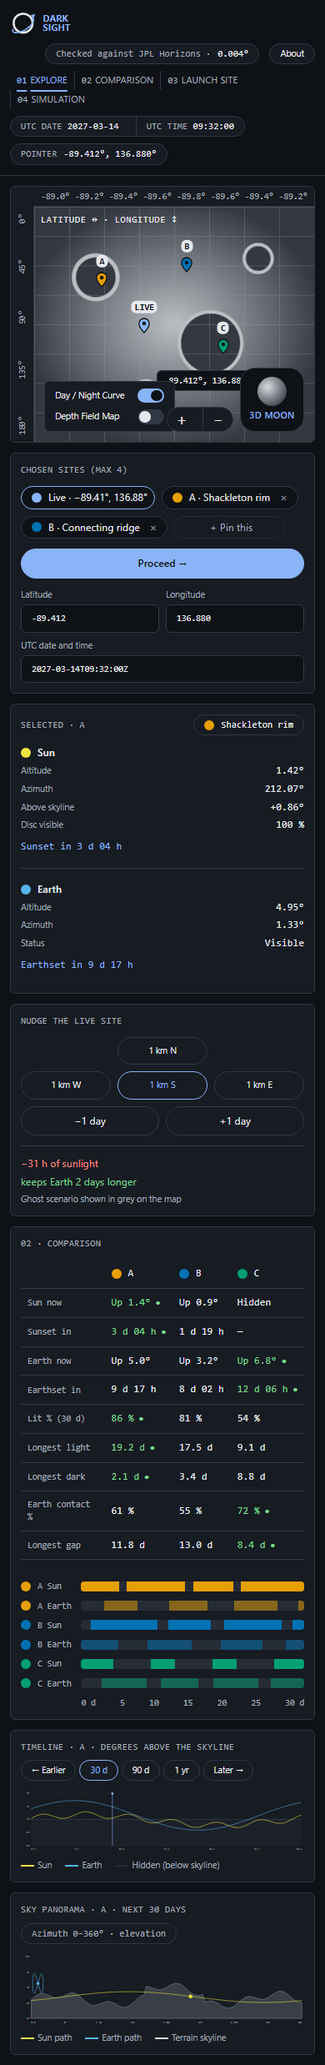
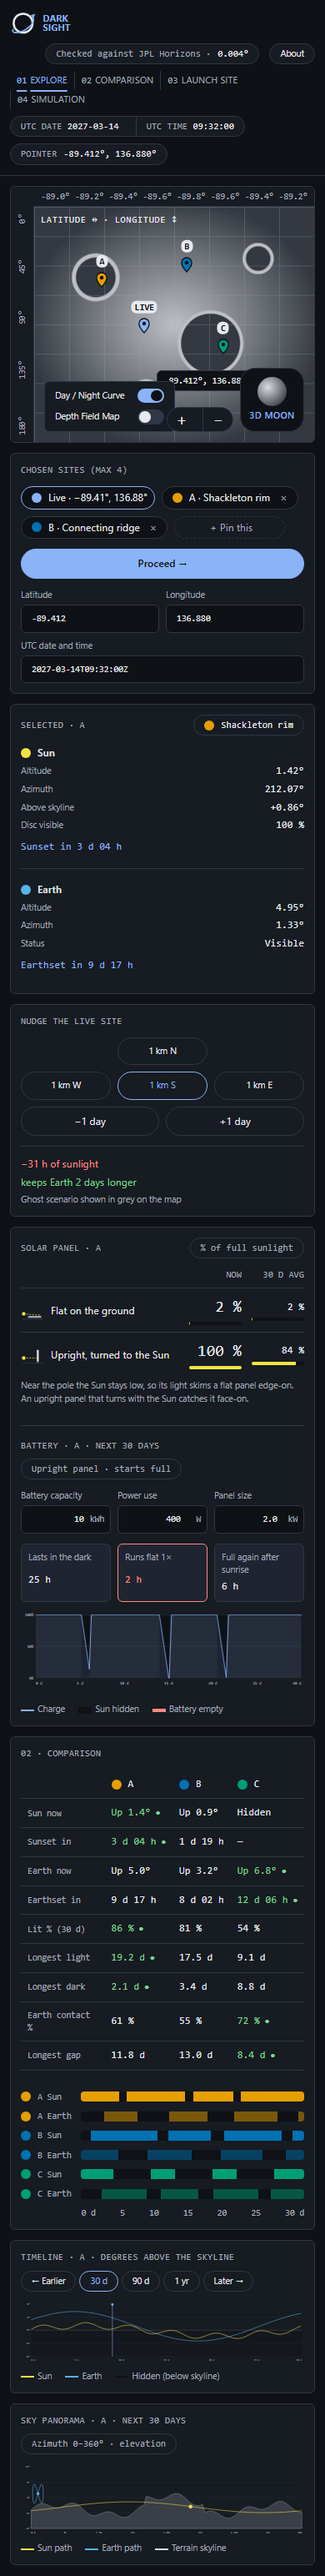
T22-b: solar panel slot with a battery proposal, pictures re-exported
The mock-up gets the ninth slot, panel: flat and upright power with a
diagram, number and meter, now and 30-day, on its own full-width row
under Scenarios. Beside it, a battery proposal: capacity, power use
and panel size in; a 30-day charge curve, time it lasts in the dark,
time flat and time to refill out. --dark follows T19 (#0e1116). All
pictures re-exported, panel.png new; design.md lists the battery and
the changed arrangement for P1.

diff --git a/docs/design/mockup.html b/docs/design/mockup.html
@@ -13,7 +13,7 @@
   Views (query string):
     ?view=desktop    whole screen, 1280 wide            -> desktop.png
     ?view=phone      whole screen, 390 wide             -> phone.png
-    ?slot=<id>       one slot alone, at its desktop width -> <id>.png
+    ?slot=<id>       one slot alone, at its desktop width -> <id>.png (nine slots, panel included)
     ?view=components buttons, tabs, toggles, chips, pills, toast, tooltip
     ?view=loading    brief frame 1 (proposal)
     ?view=hero       brief frame 2 (proposal)
@@ -46,7 +46,7 @@
   --sun: #F0E442;         /* fixed */
   --earth: #56B4E9;       /* fixed */
   --lit: #e6e9ee;
-  --dark: #262c36;
+  --dark: #0e1116;       /* T19 (#23): on #262c36 scenario B's strip was 2.71:1, here 3.65:1 */
   --terrain-lo: #3a3f47;
   --terrain-hi: #d9dce1;
   --space-1: 4px;
@@ -121,7 +121,7 @@ h3 {
   grid-template-columns: minmax(0, 1fr) 24rem;
   grid-template-areas:
     'about about' 'scene readout' 'scene nudge'
-    'scenarios scenarios' 'compare compare' 'timeline timeline' 'sky sky';
+    'scenarios scenarios' 'panel panel' 'compare compare' 'timeline timeline' 'sky sky';
   grid-template-rows: auto auto 1fr;
   gap: var(--space-4);
   padding: 0 var(--space-5) var(--space-5);
@@ -129,12 +129,13 @@ h3 {
 }
 #about { grid-area: about; } #scene { grid-area: scene; } #readout { grid-area: readout; }
 #nudge { grid-area: nudge; align-self: start; } #scenarios { grid-area: scenarios; }
+#panel { grid-area: panel; }
 #compare { grid-area: compare; } #timeline { grid-area: timeline; } #sky { grid-area: sky; }
 #app > * { min-width: 0; }
 
 body.phone #app {
   width: 390px; grid-template-columns: minmax(0, 1fr);
-  grid-template-areas: 'about' 'scene' 'scenarios' 'readout' 'nudge' 'compare' 'timeline' 'sky';
+  grid-template-areas: 'about' 'scene' 'scenarios' 'readout' 'nudge' 'panel' 'compare' 'timeline' 'sky';
   grid-template-rows: none; gap: var(--space-3); padding: 0 var(--space-3) var(--space-3);
 }
 body.phone .card { padding: var(--space-3); }
@@ -277,6 +278,43 @@ body.phone .site-inputs > :last-child { grid-column: 1 / -1; }
 .nudge-out { margin-top: var(--space-3); padding-top: var(--space-3); border-top: 1px solid var(--border); display: grid; gap: var(--space-1); }
 .ok { color: var(--ok); } .bad { color: var(--bad); }
 
+/* ---------- panel: solar panel power (F15) and battery (proposal) ---------- */
+#panel { display: grid; grid-template-columns: 24rem minmax(0, 1fr); gap: var(--space-5); }
+body.phone #panel { grid-template-columns: minmax(0, 1fr); }
+.pn-side { display: flex; flex-direction: column; gap: var(--space-3); min-width: 0; }
+.pn-side + .pn-side { border-left: 1px solid var(--border); padding-left: var(--space-5); }
+body.phone .pn-side + .pn-side { border-left: 0; padding-left: 0; border-top: 1px solid var(--border); padding-top: var(--space-4); }
+#panel .chart-head { margin: 0; }
+.pn-grid { display: grid; grid-template-columns: minmax(0, 1fr) 4.5rem 4.5rem; gap: var(--space-2) var(--space-3); align-items: center; }
+.pn-col { font-family: var(--font-num); font-size: var(--fs-sm); color: var(--muted); letter-spacing: 0.04em; text-transform: uppercase; text-align: right; }
+.pn-type { display: flex; align-items: center; gap: var(--space-2); line-height: 1.25; }
+.pn-type svg { width: 2rem; height: 2rem; flex: none; }
+.pn-val { display: grid; gap: var(--space-1); }
+.pn-val b { font-family: var(--font-num); font-variant-numeric: tabular-nums; font-weight: 400; text-align: right; }
+.pn-val b.hi { font-size: var(--fs-lg); }
+.meter { height: var(--space-1); border-radius: var(--space-1); background: var(--dark); overflow: hidden; }
+.meter i { display: block; height: 100%; background: var(--sun); }
+.pn-grid .rule { grid-column: 1 / -1; border-top: 1px solid var(--border); }
+.pn-why { font-size: var(--fs-sm); }
+.bt-inputs { display: grid; grid-template-columns: repeat(3, minmax(0, 1fr)); gap: var(--space-2); }
+.bt-unit { position: relative; display: block; }
+.bt-unit .field { padding-right: 3rem; text-align: right; }
+.bt-unit span { position: absolute; right: var(--space-3); top: 50%; transform: translateY(-50%); color: var(--muted); font-family: var(--font-num); font-size: var(--fs-sm); }
+.bt-stats { display: grid; grid-template-columns: repeat(3, minmax(0, 1fr)); gap: var(--space-2); }
+body.phone .bt-unit .field { padding-right: 2.25rem; }
+body.phone .bt-unit span { right: var(--space-2); }
+body.phone .stat { padding: var(--space-2); }
+body.phone .stat .v { font-size: var(--fs-md); }
+.stat { background: var(--panel-2); border: 1px solid var(--border); border-radius: var(--radius); padding: var(--space-2) var(--space-3); display: grid; gap: var(--space-1); }
+.stat .k { font-size: var(--fs-sm); color: var(--muted); }
+.stat .v { font-family: var(--font-num); font-variant-numeric: tabular-nums; font-size: var(--fs-lg); }
+.stat.warn { border-color: var(--bad); }
+.stat.warn .v { color: var(--bad); }
+svg.chart .charge { stroke: var(--accent); fill: none; stroke-width: 2; }
+svg.chart .charge-fill { fill: var(--accent); opacity: 0.12; }
+svg.chart .night { fill: var(--dark); }
+svg.chart .flat { stroke: var(--bad); stroke-width: 4; }
+
 /* ---------- compare ---------- */
 .compare-wrap { overflow-x: auto; }
 .table td.best { color: var(--ok); }
@@ -316,6 +354,7 @@ body.slot #app > .show { display: block; margin: 0; }
 body.slot #app > #scene.show { display: block; }
 body.slot #app > #scenarios.show { display: grid; }
 body.slot #app > #about.show { display: flex; }
+body.slot #app > #panel.show { display: grid; }
 
 /* ---------- extra sheets ---------- */
 .sheet { padding: var(--space-5); display: grid; gap: var(--space-5); width: 1280px; }
@@ -441,6 +480,38 @@ body.slot #app > #about.show { display: flex; }
     </div>
   </section>
 
+  <!-- panel (F15, T15) plus the battery proposal. Made-up numbers that agree with the readout
+       (Sun 1.42 deg up, lit 86 % of 30 days); the battery curve is simulated in the script below on
+       scenario A's Sun strip, so its stats agree with its chart. -->
+  <section id="panel" class="card" aria-label="Solar panel and battery">
+    <div class="pn-side">
+      <div class="chart-head"><h3>Solar panel · A</h3><span class="badge">% of full sunlight</span></div>
+      <div class="pn-grid">
+        <span></span><span class="pn-col">Now</span><span class="pn-col">30 d avg</span>
+        <span class="rule"></span>
+        <span class="pn-type"><svg viewBox="0 0 32 32" aria-hidden="true"><circle cx="4" cy="21" r="2.5" fill="var(--sun)"/><path d="M8 21.5 L28 23" stroke="var(--sun)" stroke-width="1" stroke-dasharray="2 2"/><rect x="10" y="24" width="18" height="2.5" fill="var(--muted)"/><path d="M2 28 H30" stroke="var(--border)" stroke-width="1"/></svg>Flat on the ground</span>
+        <span class="pn-val"><b class="hi">2 %</b><span class="meter"><i style="width:2%"></i></span></span>
+        <span class="pn-val"><b>2 %</b><span class="meter"><i style="width:2%"></i></span></span>
+        <span class="rule"></span>
+        <span class="pn-type"><svg viewBox="0 0 32 32" aria-hidden="true"><circle cx="4" cy="21" r="2.5" fill="var(--sun)"/><path d="M8 21 H21" stroke="var(--sun)" stroke-width="1" stroke-dasharray="2 2"/><rect x="22" y="10" width="2.5" height="16" fill="var(--text)"/><path d="M23.25 26 V28" stroke="var(--muted)" stroke-width="1"/><path d="M2 28 H30" stroke="var(--border)" stroke-width="1"/></svg>Upright, turned to the Sun</span>
+        <span class="pn-val"><b class="hi">100 %</b><span class="meter"><i style="width:100%"></i></span></span>
+        <span class="pn-val"><b>84 %</b><span class="meter"><i style="width:84%"></i></span></span>
+      </div>
+      <p class="pn-why muted">Near the pole the Sun stays low, so its light skims a flat panel edge-on. An upright panel that turns with the Sun catches it face-on.</p>
+    </div>
+    <div class="pn-side">
+      <div class="chart-head"><h3>Battery · A · next 30 days</h3><span class="badge">Upright panel · starts full</span></div>
+      <div class="bt-inputs">
+        <label class="lab">Battery capacity<span class="bt-unit"><input class="field" value="10"><span>kWh</span></span></label>
+        <label class="lab">Power use<span class="bt-unit"><input class="field" value="400"><span>W</span></span></label>
+        <label class="lab">Panel size<span class="bt-unit"><input class="field" value="2.0"><span>kW</span></span></label>
+      </div>
+      <div class="bt-stats" id="bt-stats"></div>
+      <svg class="chart" id="btc" viewBox="0 0 760 200"></svg>
+      <div class="legend"><span><i style="background:var(--accent)"></i>Charge</span><span><i style="background:var(--dark);height:var(--space-2)"></i>Sun hidden</span><span><i style="background:var(--bad);height:var(--space-1)"></i>Battery empty</span></div>
+    </div>
+  </section>
+
   <!-- scenarios -->
   <section id="scenarios" class="card" aria-label="Scenarios">
     <h3 style="margin:0">Chosen sites (max 4)</h3>
@@ -530,6 +601,48 @@ sc.forEach(([n, c, sunF, earthF], i) => {
 });
 s += '<span></span><div class="strip-axis"><span>0 d</span><span>5</span><span>10</span><span>15</span><span>20</span><span>25</span><span>30 d</span></div>';
 document.getElementById('strips').innerHTML = s;
+
+// battery: a real run of the mock on scenario A's Sun strip (same runs() as above), upright panel.
+// Inputs as shown in the fields: 10 kWh, 400 W use, 2.0 kW panel; starts full.
+(function () {
+  const cap = 10000, load = 400, peak = 2000, dt = 0.01; // Wh, W, W, days
+  const sun = runs(0, 0.86);
+  const lit = (d) => { let t = 0; for (const [u, l] of sun) { if (d < t + l) return u; t += l; } return false; };
+  let e = cap, empty = 0, emptyRuns = 0, wasEmpty = false, sunrise = null;
+  const refill = [], pts = [];
+  for (let d = 0; d <= 30 + 1e-9; d += dt) {
+    const up = lit(d);
+    e = Math.max(0, Math.min(cap, e + ((up ? peak : 0) - load) * dt * 24));
+    if (e === 0) { empty += dt; if (!wasEmpty) emptyRuns++; wasEmpty = true; } else wasEmpty = false;
+    if (!up) sunrise = null;
+    else if (sunrise === null && e < cap) sunrise = d;
+    if (sunrise !== null && e >= cap) { refill.push(d - sunrise); sunrise = null; }
+    pts.push([d, e / cap, up]);
+  }
+  const lastsH = cap / load;
+  const refillH = refill.length ? Math.max(...refill) * 24 : 0;
+  const W = 760, H = 200, L = 40, R = 8, T = 8, B = 24;
+  const x = (d) => L + (d / 30) * (W - L - R), y = (f) => T + (1 - f) * (H - T - B);
+  let g = '', n0 = null, f0 = null;
+  pts.forEach(([d, , up], i) => {
+    if (!up && n0 === null) n0 = d;
+    if ((up || i === pts.length - 1) && n0 !== null) { g += `<rect class="night" x="${x(n0)}" y="${T}" width="${x(d) - x(n0)}" height="${H - T - B}"/>`; n0 = null; }
+  });
+  for (const f of [0, 0.5, 1]) g += `<line class="gridl" x1="${L}" x2="${W - R}" y1="${y(f)}" y2="${y(f)}"/><text class="tick" x="${L - 6}" y="${y(f) + 4}" text-anchor="end">${f * 100}%</text>`;
+  for (let d = 0; d <= 30; d += 5) g += `<text class="tick" x="${x(d)}" y="${H - 6}" text-anchor="${d === 30 ? 'end' : d === 0 ? 'start' : 'middle'}">${d} d</text>`;
+  const line = pts.map(([d, f], i) => (i ? 'L' : 'M') + x(d).toFixed(1) + ' ' + y(f).toFixed(1)).join('');
+  g += `<path class="charge-fill" d="${line}L${x(30)} ${y(0)}L${x(0)} ${y(0)}Z"/><path class="charge" d="${line}"/>`;
+  pts.forEach(([d, f], i) => {
+    if (f === 0 && f0 === null) f0 = d;
+    if ((f > 0 || i === pts.length - 1) && f0 !== null) { g += `<line class="flat" x1="${x(f0)}" x2="${x(d)}" y1="${y(0)}" y2="${y(0)}"/>`; f0 = null; }
+  });
+  document.getElementById('btc').innerHTML = g;
+  const h = (v) => v >= 48 ? (v / 24).toFixed(1) + ' d' : Math.round(v) + ' h';
+  document.getElementById('bt-stats').innerHTML =
+    `<div class="stat"><span class="k">Lasts in the dark</span><span class="v">${h(lastsH)}</span></div>` +
+    `<div class="stat${empty ? ' warn' : ''}"><span class="k">${empty ? 'Runs flat ' + emptyRuns + '×' : 'Never runs flat'}</span><span class="v">${empty ? h(empty * 24) : '0 h'}</span></div>` +
+    `<div class="stat"><span class="k">Full again after sunrise</span><span class="v">${h(refillH)}</span></div>`;
+})();
 
 // timeline chart
 (function () {

diff --git a/docs/design.md b/docs/design.md
@@ -22,8 +22,8 @@ exists, paste its link here: _(link to come)_.
 | File | What |
 |---|---|
 | `desktop.png` | Whole screen, 1280 wide |
-| `phone.png` | Whole screen, 390 wide, slots stacked in contract order |
-| `about.png` `scene.png` `scenarios.png` `readout.png` `nudge.png` `compare.png` `timeline.png` `sky.png` | One per slot, at its desktop width |
+| `phone.png` | Whole screen, 390 wide, slots stacked in contract order: about, scene, scenarios, readout, nudge, panel, compare, timeline, sky |
+| `about.png` `scene.png` `scenarios.png` `readout.png` `nudge.png` `panel.png` `compare.png` `timeline.png` `sky.png` | One per slot, at its desktop width (nine slots) |
 | `components.png` | Every state: button (secondary, hover, pressed, focus, selected, disabled), primary, tab, toggle, site chip (filled, selected, empty), info pill, field (focus, error), toast, tooltip on disabled Proceed |
 | `loading.png`, `hero.png` | Brief frames 1 and 2. **Proposals only**: they aren't slots (see "Needs P1") |
 | `cvd.png` | Scenario, Sun and Earth colours under protanopia, deuteranopia, tritanopia |
@@ -49,14 +49,14 @@ Clear Bamboo, Deep Hanada) are no longer used.
 | `--scn-ghost` | `#8a8f98` |
 | `--sun` `--earth` | `#F0E442` `#56B4E9` (fixed) |
 | `--lit` | `#e6e9ee` |
-| `--dark` | `#262c36` |
+| `--dark` | `#0e1116` (T19's choice, #23) |
 | `--terrain-lo` `--terrain-hi` | `#3a3f47` `#d9dce1` |
 | `--radius` | `6px` |
 | `--space-1` … `--space-5` | 4, 8, 12, 16, 24 px |
 
-**Strips on `--dark`.** Solid scenario strips against `#262c36`: A 6.23, C 4.10, **B 2.71**,
-below the 3 : 1 that WCAG asks of graphics. The letter beside each strip keeps B readable; a
-darker `--dark` (for example `#1B1B1B`, B 3.32) would fix it. That is T19's call.
+**Strips on `--dark`.** T19 set `--dark` to the page colour `#0e1116`: on main's earlier
+`#262c36` scenario B's strip was 2.71 : 1. Now the solid strips are A 8.40, B 3.65, C 5.53, all
+above the 3 : 1 that WCAG asks of graphics.
 
 ## Type
 
@@ -73,7 +73,7 @@ darker `--dark` (for example `#1B1B1B`, B 3.32) would fix it. That is T19's call
 ## Rules the pictures follow
 
 - Pins, chips, table columns and strips use the scenario colour plus the letter (A, B, C), so
-  colour is never the only clue. The live site is the accent green.
+  colour is never the only clue. The live site uses `--accent` (soft blue).
 - Active tab: accent text with a 2 px underline. Inactive: muted. Focus: 2 px accent outline on
   everything you can press.
 - Disabled is 40 % opacity, with a tooltip saying why ("Select at least one site").
@@ -148,3 +148,21 @@ Values the design needs that the contract doesn't name. Nothing below was given 
      over the spec's terrain.
    - Brief toggles "Day / Night Curve" and "Depth Field Map" map to F14 layers (if time).
    - Brief: Inter or Space Grotesk. Task rule: system fonts only. System fonts are used.
+7. **Solar panel and battery (`panel`, T15 and a proposal).**
+   - **Arrangement differs from the T19 ticket.** The ticket puts `#panel` under `#nudge`, beside
+     `#scenarios` (`'scenarios panel'`). With the battery added the card needs the width for its
+     chart, so the picture gives it its own full-width row under Scenarios
+     (`'scenarios scenarios' 'panel panel'`), and after Nudge on the phone as before. Not beside
+     the scene, so the map card isn't stretched. P1 and T19 to agree; without the battery the
+     ticket's place still works.
+   - **The battery is not in the spec** (F15 has the two panel percentages only). The picture
+     shows three inputs (battery capacity in kWh, power use in W, panel size in kW), three results
+     (how long it lasts in the dark, how often and how long it runs flat, how long to fill again
+     after sunrise) and a 30-day charge chart with the dark stretches shaded and empty spells in
+     `--bad`. Model in the picture: upright Sun-facing panel, starts full, charge += (panel power
+     when the Sun is up − use) × time, kept between empty and full. A real version needs a spec
+     line, a `core/` function with tests (every number from `core/`), and the inputs in
+     `state.ts`; it would use the same Sun samples as the strips. The mock curve is simulated on
+     scenario A's made-up Sun strip, so its numbers agree with its chart, not with real data.
+   - New pieces with no shared class: the result box (`.stat`, on `--panel-2`; `--bad` border when
+     the battery runs flat) and the thin meter bar under each percentage (`--sun` on `--dark`).

diff --git a/docs/ai-use/T22.md b/docs/ai-use/T22.md
@@ -6,3 +6,4 @@
 | 2026-11-14 | P5 | Claude Code (Opus 5.5) | Wrote `docs/design/mockup.html` (contract section 6 names only; literals marked "NOT IN CONTRACT") and exported the 8 slot pictures, `desktop.png`, `phone.png`, `components.png`, `loading.png`, `hero.png`, `cvd.png` with headless Edge, cropped with .NET System.Drawing. Made-up mock numbers. | P5 to look at every picture and get the team's yes in the chat |
 | 2026-11-14 | P5 | Claude Code (Opus 5.5) | Script for WCAG 2.1 contrast and Machado 2009 colour-blind ΔE. Found `--dark = #2E6E80` hides scenario B's strips (1.11 : 1) and changed it to `#1B1B1B` in the design. Wrote `docs/design.md` with the palette, type, checks and the list for P1. | P5 to check the numbers and the `--dark` change; T19 to copy it |
 | 2026-11-14 | P5 | Claude Code (Opus 5.5) | Recoloured `mockup.html` with the colour values from `main`'s `web/src/ui/theme.css` (layout, sizes and mock data unchanged), re-exported all 14 pictures with headless Edge, recomputed contrast and rewrote the palette in `docs/design.md`. Found scenario B's solid strip is 2.71 : 1 on `--dark #262c36`. | P5 to look at the new pictures |
+| 2026-11-14 | P5 | Claude Code (Opus 5.5) | T22-b (issue #60, item 3): added the `panel` slot to `mockup.html`, redesigned (two panel types with a diagram, number and meter, now and 30-day) and moved to its own full-width row; added a battery proposal (capacity, use, panel size inputs; 30-day charge simulated on scenario A's mock Sun strip; three results). `--dark` to `#0e1116` to match T19. Re-exported all 15 pictures, new `panel.png`. Updated `design.md` (pictures, phone order, `--dark`, accent wording, Needs P1 item 7). | P5 asked for the redesign and the battery; P5 to look at `panel.png`, `desktop.png`, `phone.png` |

diff --git a/docs/sources/T22.md b/docs/sources/T22.md
@@ -9,3 +9,4 @@
 | Machado, Oliveira, Fernandes (2009), "A Physiologically-based Model for Simulation of Color Vision Deficiency" | Colour-blind simulation matrices (severity 1.0) | https://www.inf.ufrgs.br/~oliveira/pubs_files/CVD_Simulation/CVD_Simulation.html | Paper, matrices published by the authors |
 | Okabe and Ito, colour-universal design palette | Origin of the fixed scenario, Sun and Earth colours | https://jfly.uni-koeln.de/color/ | Free to use |
 | Microsoft Edge headless | Rendering the mock-up to PNG | https://learn.microsoft.com/en-us/microsoft-edge/ | Installed browser, no package added |
+| T15 task and `web/src/ui/panel/` | What the solar panel card shows (flat and upright power, now and 30 days) | In the repo | Team's own work |

diff --git a/tasks/T22-design.md b/tasks/T22-design.md
@@ -1,6 +1,6 @@
 # T22: Design in Figma
 
-Status: done (pull request #22). The team said yes, confirmed by P1 on 14 Nov 2026. No Figma link: the pictures were made from the brief
+Status: done (pull request #22). The team said yes, confirmed by P1 on 14 Nov 2026. No Figma link: the pictures were made from the brief. T22-b in review: solar panel slot and battery proposal
 
 | | |
 |---|---|
